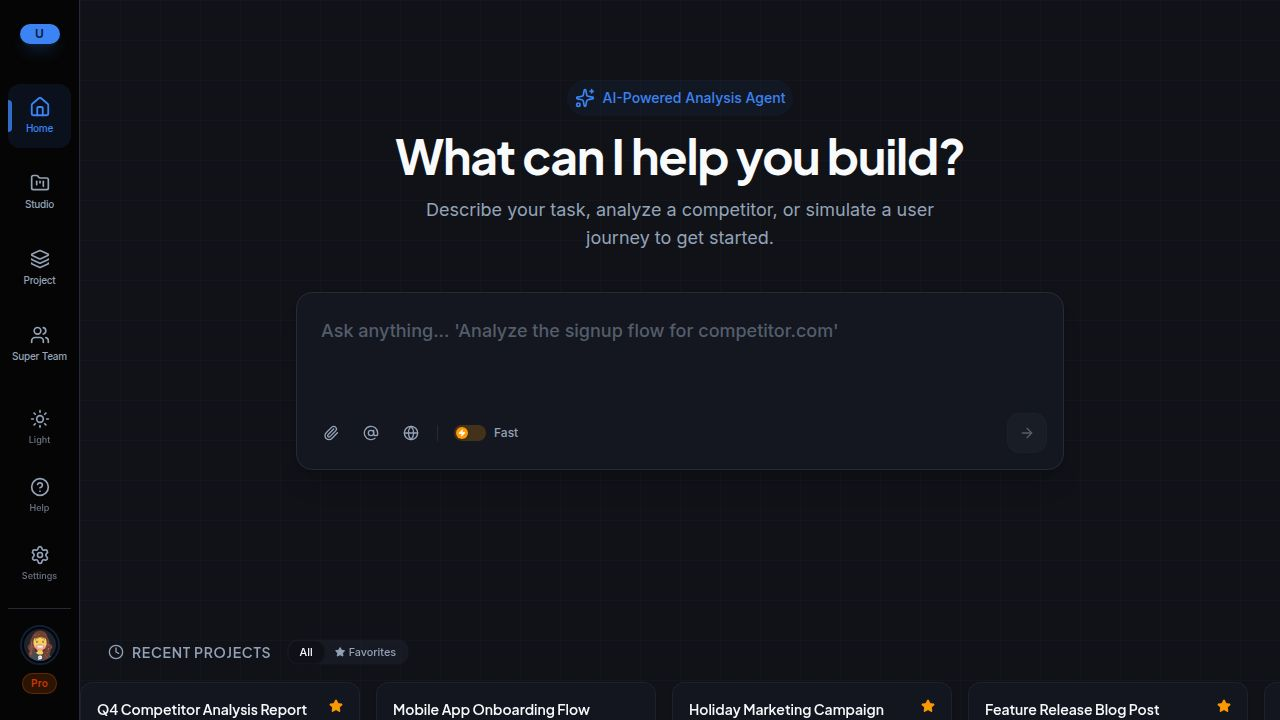
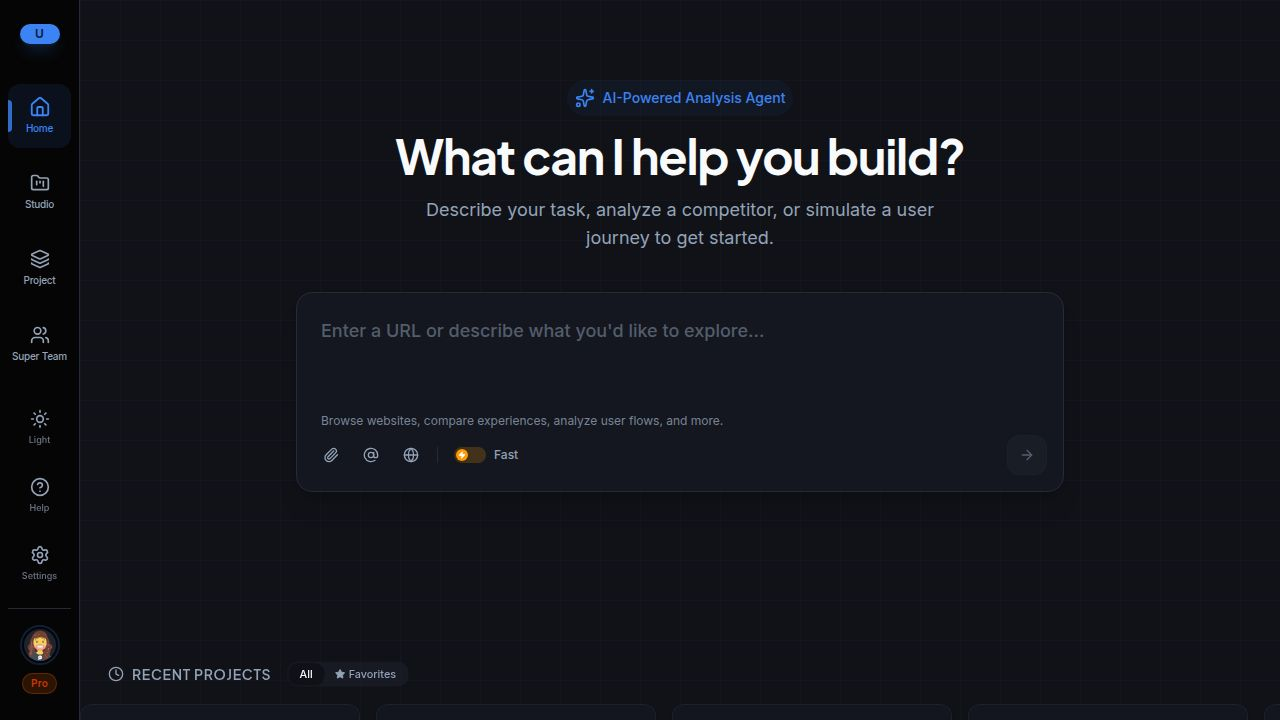
Update homepage input to be more universal and descriptive
Refactors the Home page input component, updating its placeholder text to "Enter a URL or describe what you'd like to explore..." and adding a descriptive hint text below it. Updates the `data-testid` for the primary input and adds a new `data-testid` for the hint text. Modifies the team creation logic in `Home.tsx` to include a `status: 'pool'` property.

Replit-Commit-Author: Agent
Replit-Commit-Session-Id: c24184d1-6293-481e-820b-1f8dd8833c02
Replit-Commit-Checkpoint-Type: full_checkpoint
Replit-Commit-Event-Id: fc651685-ea9e-42ac-b6f4-009cec45360f
Replit-Commit-Screenshot-Url: https://storage.googleapis.com/screenshot-production-us-central1/79161833-a499-40d9-9374-0f55e77ff4c2/c24184d1-6293-481e-820b-1f8dd8833c02/jsP7GWU
Replit-Helium-Checkpoint-Created: true

diff --git a/client/src/pages/Home.tsx b/client/src/pages/Home.tsx
@@ -1115,10 +1115,15 @@ export default function Home() {
                     ref={inputRef}
                     value={homeInput}
                     onChange={handleInputChange}
-                    placeholder="Ask anything... 'Analyze the signup flow for competitor.com'" 
+                    placeholder="Enter a URL or describe what you'd like to explore..."
                     className="w-full bg-transparent border-0 focus:ring-0 focus:outline-none resize-none p-6 min-h-[120px] text-lg placeholder:text-muted-foreground/50 font-medium shadow-none ring-0 selection:bg-primary/20"
+                    data-testid="input-home-primary"
                   />
-                  
+
+                  <div className="px-6 pb-1.5 text-xs text-muted-foreground/80" data-testid="text-home-input-hint">
+                    Browse websites, compare experiences, analyze user flows, and more.
+                  </div>
+
                   <div className="flex justify-between items-center p-4 pt-0 border-t-0 bg-transparent">
                      <div className="flex gap-1">
                         <Button variant="ghost" size="icon" className="h-9 w-9 text-muted-foreground hover:text-foreground rounded-lg" title="Attach">
@@ -1509,7 +1514,7 @@ export default function Home() {
                     const name = (document.getElementById('team-name') as HTMLInputElement).value;
                     const desc = (document.getElementById('team-desc') as HTMLTextAreaElement).value;
                     if (name) {
-                        setTeams([...teams, { id: `team-${Date.now()}`, name, description: desc, personaIds: [] }]);
+                        setTeams([...teams, { id: `team-${Date.now()}`, name, description: desc, personaIds: [], status: 'pool' }]);
                         setIsAddingTeam(false);
                         toast({ title: "Team Created", description: `${name} is ready for deployment.` });
                     }
